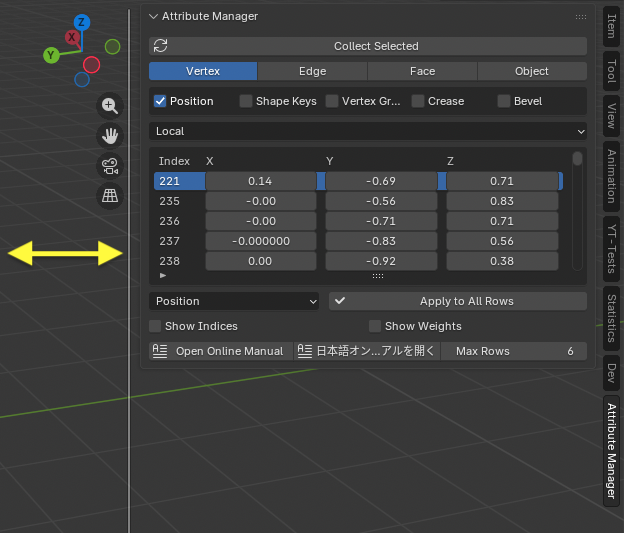
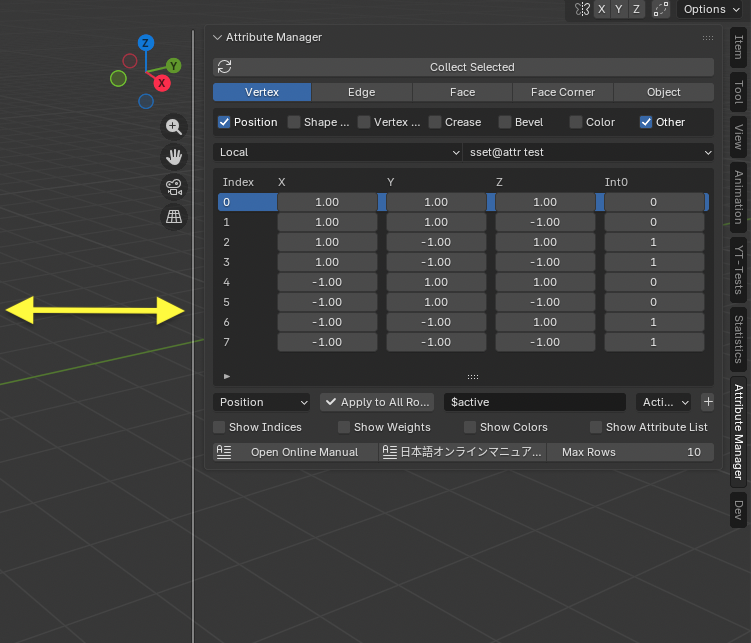
update for v1.3

diff --git a/AttributeManager/index.md b/AttributeManager/index.md
@@ -100,10 +100,58 @@ This is the spreadsheet-style table where loaded attributes can be edited.
 </div>
 <br>
 
-### <ins>(5) Apply to All Rows<ins><br>
-The <b>Apply to All Rows</b> button applies the value from the selected row to all other rows for the field chosen in the adjacent dropdown.
+### <ins>(5) Apply to All Rows</ins><br>
+Use this button when you want to apply a specific column's value (item) to all rows based on an expression.
 
-### <ins>(6) Show Indices, Show Weights, Show Colors<ins><br>
+- Enter the formula in the expression field.
+- Select the target column from the drop-down menu.
+- Press "Apply to All Rows."
+
+The value of the specified float field will be calculated and applied to the same item in all rows based on the arithmetic formula. If you press "Apply to All Rows" for an item other than a float, the value of the currently selected active cell will be applied to all rows. <br>
+
+Expression are based on Python's eval function and support all four basic arithmetic operations. The following variables are available for Attribute List expressions. <br>
+You can also use Python's <a href="https://docs.python.org/3/library/math.html">math module</a>. <br>
+
+- $active: The value of the specified item (cell) in the currently selected row.
+- $value: The value of the specified item (cell) in the row being calculated.
+- $min_value: The minimum value of the specified item (cell) in all rows.
+- $max_value: The maximum value of the specified item (cell) in all rows.
+
+You can add the above variables and basic operators to the field using the pop-up to the right of the input field. <br>
+
+Example 1: Set all row values to the value of the currently selected cell.<br>
+<b>$active</b><br>
+
+Example 2: Add 2.0 to all row values. (If you are performing arithmetic on the current values, you can omit the first $value.)<br>
+<b>$value + 2.0</b> or <b>+ 2.0</b><br>
+
+Example 3: Set all row values to the minimum value of all rows.<br>
+<b>$min_value</b><br>
+
+Example 4: Set all row values to the midpoint between the minimum and maximum values of all rows.<br>
+<b>($min_value + $max_value) / 2.0</b><br>
+
+Example 5: Limit row values to a specified range (0.0 - 1.0).<br>
+<b>clamp($value, 0.0, 1.0)</b><br>
+
+Example 6: Set the square root of each value in all rows.<br>
+<b>math.sqrt($value)</b><br>
+
+Example 7: Convert 10.0° to radians and add it to each value in all rows.<br>
+<b>+ math.radians(10.0)</b><br>
+
+<div align="left">
+<img src="images/Expression.png"/>
+</div>
+<br>
+
+<div align="left">
+<img src="images/vertexAttributeList.gif"/>
+</div>
+<br>
+
+### <ins>(6) Show Indices, Show Weights, Show Colors, Show Attribute List</ins><br>
+
 - <b>Show Indices</b> displays the index numbers of mesh elements in the 3D View.
 This performs the same function as the Indices toggle in the Blender Edit Mode overlay.
 
@@ -121,6 +169,10 @@ When switching 3D views, you must reset the Show Indices and Show Weights settin
 → Displays weights as a gradient in the 3D view.
 → Same function as Object Color in "Viewport Shading" in Object Mode.
 
+- Show Attribute List<br>
+→ Displays a list of editable attributes in Edit Mode.
+→ This list functions the same as the attribute list in Blender's standard Attribute tab.
+
 When switching 3D views, you must reset the Show Colors settings.<br>
 
 <div align="left">
@@ -132,6 +184,15 @@ When switching 3D views, you must reset the Show Colors settings.<br>
 ### <ins>(7) Max Rows<ins><br>
 <b>Max Rows</b> sets the number of rows shown in the editing table.
 Default value: 6.
+
+### <ins>(8) Attribute List</ins><br>
+The Attribute List displays a list of attributes that can be edited in Edit Mode. Pressing the <b>Set Attribute</b> button sets the selected attribute to the editing table.
+You can also add a user-defined attribute by pressing the + button to the right of the Attribute List. Pressing the - button deletes the currently selected attribute.
+
+<div align="left">
+<img src="images/AttributeList.png"/>
+</div>
+<br>
 
 
 ## Vertex Edit Mode
@@ -147,10 +208,13 @@ In Vertex Edit Mode, you can edit:
 - Crease
 - Bevel Weight
 - Color Attribute (POINT)
+- Other attributes (Float, Float Vector, Int, String, Bool)
 
 Coordinate values can be displayed and edited in either local or global coordinate space.<br>
 When in Edit Mode, global coordinates are converted from local, displayed in the table, and converted back when applied.
 This allows precise positioning in global space when needed.<br>
+
+Other attributes allow you to edit user-defined custom attributes added using the Attribute List. Select an attribute from the list of attributes set for the vertex and edit it. <br>
 
 <div align="left">
 <img src="images/vertexPosition.gif"/>
@@ -177,8 +241,11 @@ In Edge Edit Mode, you can edit edge attributes such as:
 - Crease
 - Edge Bevel Weight
 - Length
+- Other Attributes (Float, Float Vector, Int, String, Bool)
 
-These influence subdivision surfaces, shading, and modeling workflows.
+These influence subdivision surfaces, shading, and modeling workflows.<br>
+
+Other attributes allow you to edit user-defined custom attributes added using the Attribute List, etc. Select from the list of attributes set for the edge to edit. <br>
 
 <div align="left">
 <img src="images/edgeLength.gif"/>
@@ -193,8 +260,10 @@ These influence subdivision surfaces, shading, and modeling workflows.
 In Face Edit Mode, you can edit face attributes such as:
 - Material slots
 - Freestyle mark
+- Other attributes (Float, Float Vector, Int, String, Bool)
 
-This allows quick assignment or bulk editing of material indices and rendering attributes.
+Bulk editing is useful when many faces share the same material. Freestyle attributes can also be changed. <br>
+Other attributes allow you to edit user-defined custom attributes added using the Attribute List, etc. Select from the list of attributes set for the face and edit. <br>
 
 ## Face Corner Edit Mode
 <div align="left">
@@ -204,12 +273,15 @@ You can edit attributes associated with each corner of a face:
 
 - UV
 - Color Attributes (CORNER)
+- Other Attributes (Float, Float Vector, Int, String, Bool)
 
 In Blender, UV and color attributes are stored at each corner of a face, allowing you to edit them individually or separate them to have independent values. <br>
 
 Index Order specifies whether the table is displayed based on vertex or face numbers. Specifying <b>Face - Vertex</b> displays faces and their vertices in order. Specifying <b>Vertex - Face</b> displays vertices and their linked faces in order. <br>
 
 When <b>Shared Vertex</b> is enabled, values for the same face corner at the same vertex are edited simultaneously. Cells with the same value are not displayed. When <b>Shared Vertex</b> is turned off, values for each face corner can be edited independently. <br>
+
+Other attributes allow you to edit user-defined custom attributes added using the Attribute List, etc. Select from the list of attributes set for face corners and edit them. <br>
 
 <div align="left">
 <img src="images/faceCornerUV.gif"/>
@@ -269,6 +341,11 @@ Also, if you set the item to <b>Properties</b> and execute <b>Apply to All Rows<
 
 - Added Modifier submode to Object mode
 - Fixed a bug in the Transform Rotation setting
+
+### v1.3 New Features Added
+
+- Added Attribute List
+- Changed Apply to All Rows to use an arithmetic expression
 
 ## License
 

diff --git a/AttributeManager/release_1_3.md b/AttributeManager/release_1_3.md
@@ -1,0 +1,63 @@
+# Feel free to add content and custom Front Matter to this file.
+# To modify the layout, see https://jekyllrb.com/docs/themes/#overriding-theme-defaults
+
+layout: default
+permalink: /AttributeManager/release_1_3.html
+---
+# Attribute Manager for Blender v1.3 Release Note
+
+## ✨ New Features Overview
+
+### 🔹 Attribute List
+The Attribute List displays a list of attributes that can be edited in Edit Mode. Pressing the <b>Set Attribute</b> button sets the selected attribute to the editing table.
+You can also add a user-defined attribute by pressing the + button to the right of the Attribute List. Pressing the - button deletes the currently selected attribute.<br>
+
+<div align="left">
+<img src="images/vertexAttributeList.gif"/>
+</div>
+<br>
+
+### 🔹 Expression
+The value of the specified float field will be calculated and applied to the same item in all rows based on the arithmetic formula. If you press "Apply to All Rows" for an item other than a float, the value of the currently selected active cell will be applied to all rows. <br>
+
+Expression are based on Python's eval function and support all four basic arithmetic operations. The following variables are available for Attribute List expressions. <br>
+You can also use Python's <a href="https://docs.python.org/3/library/math.html">math module</a>. <br>
+
+- $active: The value of the specified item (cell) in the currently selected row.
+- $value: The value of the specified item (cell) in the row being calculated.
+- $min_value: The minimum value of the specified item (cell) in all rows.
+- $max_value: The maximum value of the specified item (cell) in all rows.
+
+You can add the above variables and basic operators to the field using the pop-up to the right of the input field. <br>
+
+Example 1: Set all row values to the value of the currently selected cell.<br>
+<b>$active</b><br>
+
+Example 2: Add 2.0 to all row values. (If you are performing arithmetic on the current values, you can omit the first $value.)<br>
+<b>$value + 2.0</b> or <b>+ 2.0</b><br>
+
+Example 3: Set all row values to the minimum value of all rows.<br>
+<b>$min_value</b><br>
+
+Example 4: Set all row values to the midpoint between the minimum and maximum values of all rows.<br>
+<b>($min_value + $max_value) / 2.0</b><br>
+
+Example 5: Limit row values to a specified range (0.0 - 1.0).<br>
+<b>clamp($value, 0.0, 1.0)</b><br>
+
+Example 6: Set the square root of each value in all rows.<br>
+<b>math.sqrt($value)</b><br>
+
+Example 7: Convert 10.0° to radians and add it to each value in all rows.<br>
+<b>+ math.radians(10.0)</b><br>
+
+
+<div align="left">
+<img src="images/vertexExpression.gif"/>
+</div>
+<br>
+
+<div align="left">
+<img src="images/objectTransform.gif"/>
+</div>
+<br>

diff --git a/index.md b/index.md
@@ -34,8 +34,9 @@ Hello I'm Taz, a software engineer specializing in modeling tools for 3D compute
 - <a href="https://tazaki.gumroad.com/l/wirsjp">Gumroad online store</a>
 - <a href="https://forms.gle/cQuSwEzg53GJHpm47">Feedback Form</a>
 - Release Note :<br>
-    <a href="/AttributeManager/release_1_2.html">v1.2</a>
+    <a href="/AttributeManager/release_1_3.html">v1.3</a>
     (
+    <a href="/AttributeManager/release_1_2.html">v1.2</a>
     <a href="/AttributeManager/release_1_1.html">v1.1</a>
     )
 
